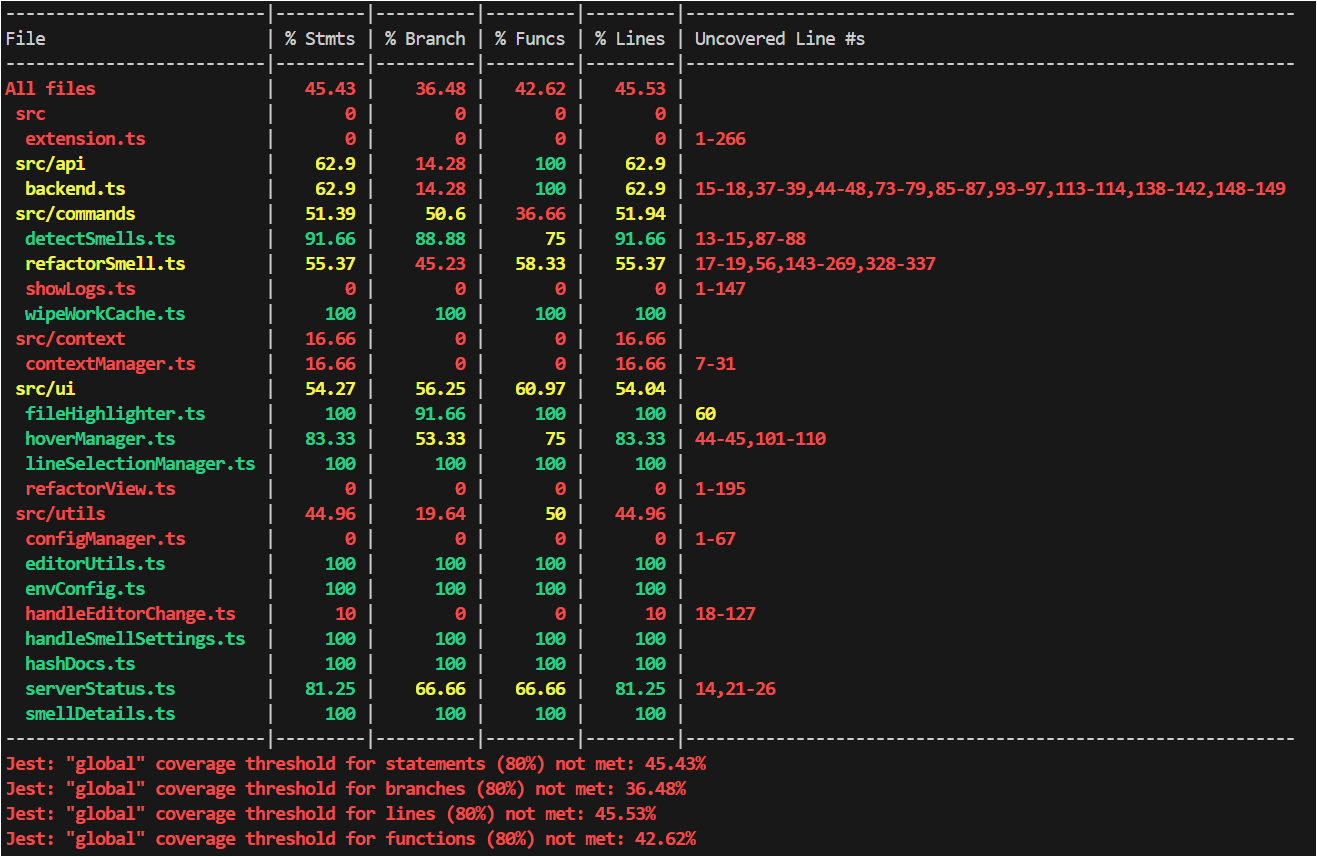
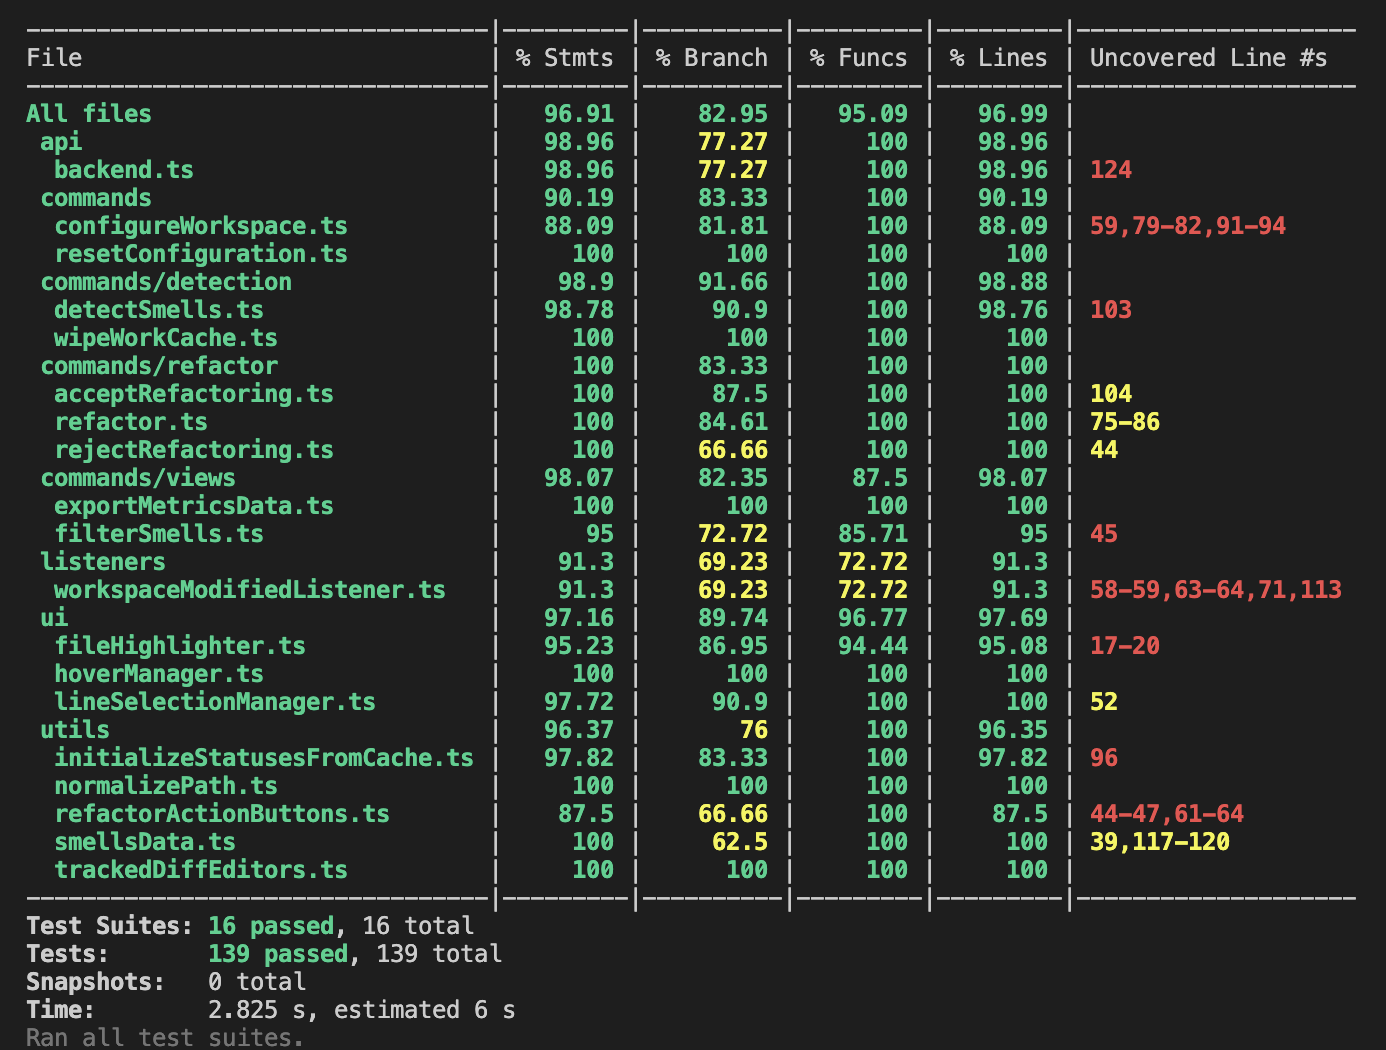
Updated code coverage image for plugin and added revision table entries #531

Changed region(s): [[0.0, 0.0, 1.0, 1.0]]

diff --git a/docs/VnVReport/VnVReport.tex b/docs/VnVReport/VnVReport.tex
@@ -50,6 +50,14 @@
   \midrule
   March 8th, 2025 & All & Created initial revision of VnV Report\\
   April 3rd, 2025 & Nivetha Kuruparan & Heavily Revised VSCode Plugin Unit Tests\\
+  April 10th, 2025 & Tanveer Brar & Updated code detection and refactoring suggestion tests\\
+  April 10th, 2025 & Tanveer Brar & Updated remaining functional requirements tests\\
+  April 10th, 2025 & Tanveer Brar & Updated unit tests for plugin\\
+  April 10th, 2025 & Tanveer Brar & Added trace to requirements\\
+  April 10th, 2025 & Tanveer Brar & Added trace to modules\\
+  April 10th, 2025 & Tanveer Brar & Styling changes\\
+  April 10th, 2025 & Tanveer Brar & Updated coverage metrics with new plugin tests\\
+  April 10th, 2025 & Tanveer Brar & Addressed peer and TA feedback\\
   \bottomrule
 \end{tabularx}
 
@@ -91,7 +99,7 @@ process used to ensure the accuracy, reliability, and performance of
 our system. It details our verification approach, test cases, and
 validation results, demonstrating that the system meets its
 requirements and functions as intended. Key findings and resolutions
-are also discussed.
+are also discussed. Recent updates to this document include comprehensive code coverage metrics for the VSCode extension frontend, improved traceability to requirements and modules, detailed test case descriptions for all functional requirements, and expanded explanations of code smells detection and refactoring.
 
 \noindent For detailed information about the project requirements and test case design methodology, please refer to the Software Requirements Specification (\SRS) document and the Verification and Validation Plan (\VnVPlan). The SRS contains comprehensive definitions of all requirements referenced in this report (including functional, non-functional, and operational requirements like OER-IAS), while the VnVPlan outlines the complete testing strategy and procedures employed during verification and validation activities.
 
@@ -3323,19 +3331,10 @@ Table \ref{tab:software_decision_modules_tests} maps test cases to the software 
 
 \section{Code Coverage Metrics}
 
-The following analyzes the code coverage metrics for the Python
-backend and frontend (TypeScript) of the VSCode extension. The
-analysis is based on the coverage data provided in Figure
-\ref{img:python-cov} (Python backend) and Figure \ref{img:vscode-cov}
+The following analyzes the code coverage metrics for the TypeScript frontend of the VSCode extension. The
+analysis is based on the coverage data provided in Figure \ref{img:vscode-cov}
 (frontend). Code coverage is a measure of how well the codebase is
 tested, and it helps identify areas that may require additional testing.
-
-\begin{figure}[H]
-  \centering
-  \includegraphics[width=0.7\textwidth]{../Images/python-coverage.png}
-  \caption{Coverage Report of the Python Backend Library}
-  \label{img:python-cov}
-\end{figure}
 
 \begin{figure}[H]
   \centering
@@ -3345,10 +3344,9 @@ tested, and it helps identify areas that may require additional testing.
 \end{figure}
 
 \subsection{VSCode Extension}
-The frontend codebase has an overall coverage of 87.65\% for
-lines, 87.51\% for statements, 76.84\% for branches, and 84.34\% for functions
-(Figure \ref{img:vscode-cov}). These metrics show significant improvement from previous
-measurements, with several core modules now having complete or near-complete coverage.
+The frontend codebase has an overall coverage of 96.99\% for
+lines, 96.91\% for statements, 82.95\% for branches, and 95.09\% for functions
+(Figure \ref{img:vscode-cov}). These metrics show significant test coverage across the codebase.
 
 \noindent \textbf{Well-Tested Components:} Many critical components have excellent coverage, including:
 \begin{itemize}
@@ -3359,18 +3357,24 @@ measurements, with several core modules now having complete or near-complete cov
   \item \texttt{trackedDiffEditors.ts}: 100\% coverage across all metrics
   \item \texttt{acceptRefactoring.ts}: 100\% line coverage (87.5\% branch coverage)
   \item \texttt{refactor.ts}: 100\% line coverage (84.61\% branch coverage)
+  \item \texttt{normalizePath.ts}: 100\% coverage across all metrics
 \end{itemize}
 
 \noindent \textbf{Areas for Improvement:} The following components still require testing attention:
 \begin{itemize}
-  \item \texttt{generateSmellsReport.ts}: 0\% coverage across all metrics, as this feature is not fully implemented
-  \item \texttt{detectSmells.ts} in the detection commands directory: While having high coverage (98.76\% lines), the overall detection directory has only 52.97\% line coverage, primarily due to the untested report generation feature
-  \item \texttt{workspaceModifiedListener.ts}: 91.3\% line coverage but only 69.23\% branch coverage
-  \item Edge cases in UI components: While most UI components have good coverage, some edge cases and error conditions remain untested
+  \item \texttt{backend.ts}: 98.96\% line coverage with uncovered line 124
+  \item \texttt{configureWorkspace.ts}: 88.09\% line coverage with uncovered lines 59, 79-82, 91-94
+  \item \texttt{detectSmells.ts}: 98.76\% line coverage with uncovered line 103
+  \item \texttt{rejectRefactoring.ts}: 100\% line coverage but only 66.66\% branch coverage, with uncovered line 44
+  \item \texttt{workspaceModifiedListener.ts}: 91.3\% line coverage but only 69.23\% branch coverage, with uncovered lines 58-59, 63-64, 71, 113
+  \item \texttt{fileHighlighter.ts}: 95.08\% line coverage with uncovered lines 17-20
+  \item \texttt{lineSelectionManager.ts}: 100\% line coverage but uncovered line 52
+  \item \texttt{initializeStatusesFromCache.ts}: 97.82\% line coverage with uncovered line 96
+  \item \texttt{refactorActionButtons.ts}: 87.5\% line coverage with uncovered lines 44-47, 61-64
+  \item \texttt{smellsData.ts}: 100\% line coverage but only 62.5\% branch coverage, with uncovered lines 39, 117-120
 \end{itemize}
 
-\noindent \textbf{Future Testing:} The \texttt{generateSmellsReport.ts} module remains unimplemented and will be prioritized for implementation and testing in revision 1.
-
+\noindent \textbf{Future Testing:} While overall code coverage is excellent at 96.99\% for lines, there are still specific uncovered lines and branches in several components that should be addressed in future testing efforts. Improving branch coverage, especially in components with coverage below 70\%, should be prioritized.
 \subsection{Python Backend}
 The backend codebase has an overall coverage of 91\% (Figure
 \ref{img:python-cov}) and has been thoroughly tested as it contains
